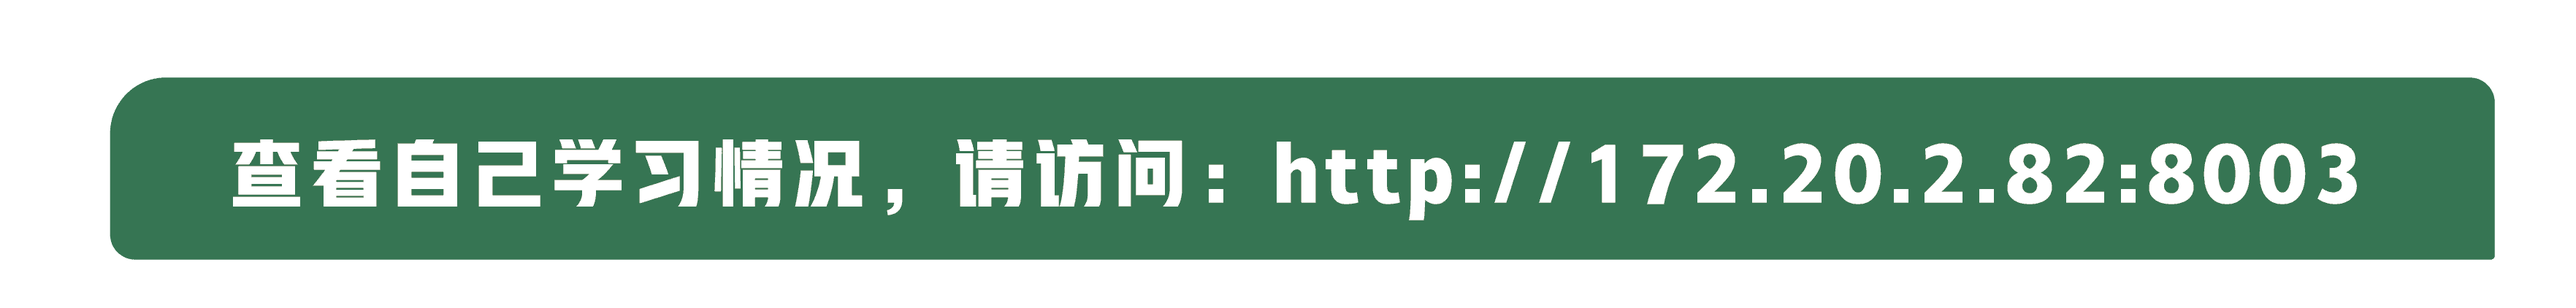
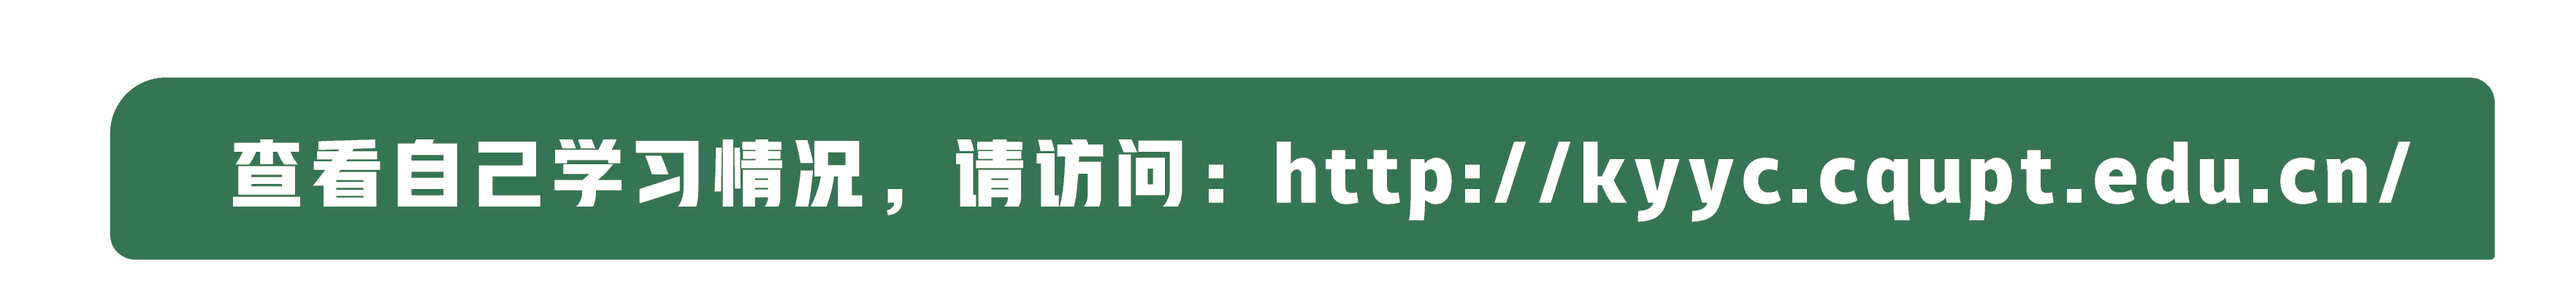
feat(student/mine): add qrCode

Changed region(s): [[0.5926, 0.4621, 0.9356, 0.7085]]

diff --git a/src/pages/Student/Mine/Lib/Lib.tsx b/src/pages/Student/Mine/Lib/Lib.tsx
@@ -8,6 +8,7 @@ import styles from './index.module.less';
 import sharePeopleImg from 'assets/pic/student/people.png';
 import effortImg from 'assets/pic/student/student-mine-share-effort.png';
 import shareUrlImg from 'assets/pic/student/student-mine-share-url.png';
+import shareQrCodeImg from 'assets/pic/student/student-mine-share-qr-code.png';
 import studentIcon from 'assets/pic/student/student.png';
 import upIcon from 'assets/pic/student/student-mine-share-up.png';
 import { useUser } from 'context/userContext';
@@ -115,7 +116,10 @@ const Lib = () => {
           </div>
         </main>
 
-        <img className={styles['url-img']} src={shareUrlImg} />
+        <footer>
+          <img className={styles['url-img']} src={shareUrlImg} />
+          <img className={styles['qr-code-img']} src={shareQrCodeImg} />
+        </footer>
       </div>
     </div>
   );

diff --git a/src/pages/Student/Mine/Lib/index.module.less b/src/pages/Student/Mine/Lib/index.module.less
@@ -117,9 +117,20 @@
       }
     }
 
-    .url-img {
+    & > footer {
+      display: flex;
+      justify-content: center;
+      align-items: center;
       margin-top: 20px;
-      width: 66%;
+
+      .url-img {
+        width: 65%;
+        height: 90%;
+      }
+
+      .qr-code-img {
+        width: 9%;
+      }
     }
   }
 }
